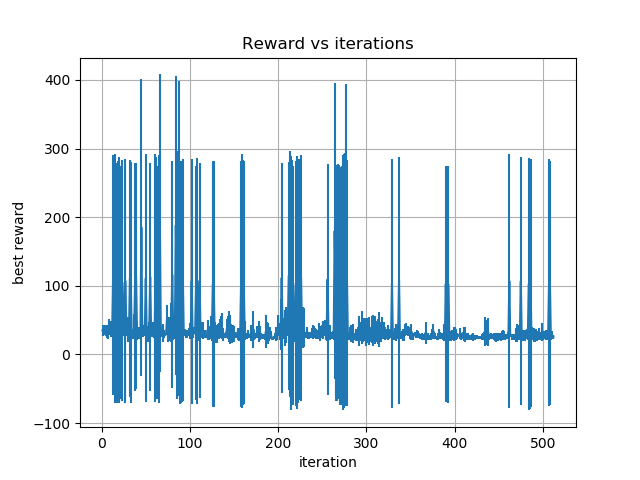
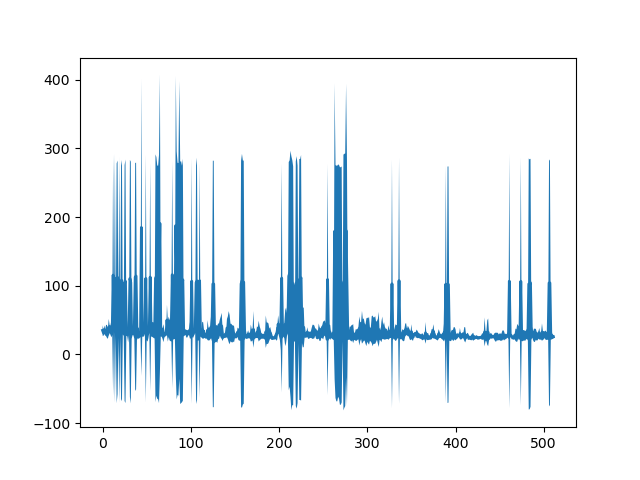
Optimización pick_and_place y archivo para piintar graficas.

diff --git a/avoid_obstacle/print_graph_with_error.py b/avoid_obstacle/print_graph_with_error.py
@@ -1,7 +1,7 @@
 import pickle
 import numpy as np
 import matplotlib.pyplot as plt
-import statistics as st
+import scipy.stats as sp
 import math
 
 file = "listas_bayesopt_waypoints.p"
@@ -11,7 +11,7 @@ n_iteraciones = len(listas[0].list_of_rewards)
 n_experimentos = len(listas)
 
 best_reward = 1000
-lists_of_best_rewards = np.zeros((n_iteraciones, n_experimentos))
+lists_of_best_rewards = np.zeros((n_experimentos, n_iteraciones))
 list_of_mean_reward = []
 list_of_intervals = []
 list_of_iterations = []
@@ -19,24 +19,28 @@ list_of_iterations = []
 for i in range(n_iteraciones):
     for j in range(n_experimentos):
         if i == 0:
-            lists_of_best_rewards[i, j] = listas[j].list_of_rewards[i]
-        elif listas[j].list_of_rewards[i] < listas[j].list_of_rewards[i-1]:
-            lists_of_best_rewards[i, j] = listas[j].list_of_rewards[i]
+            lists_of_best_rewards[j, i] = listas[j].list_of_rewards[i]
+        elif listas[j].list_of_rewards[i] < listas[j].list_of_rewards[i - 1]:
+            lists_of_best_rewards[j, i] = listas[j].list_of_rewards[i]
         else:
-            lists_of_best_rewards[i, j] = listas[j].list_of_rewards[i-1]
+            lists_of_best_rewards[j, i] = listas[j].list_of_rewards[i - 1]
 
-    mean_reward = st.mean(lists_of_best_rewards[i])
-    stddev = st.pstdev(lists_of_best_rewards[i])
-    t_student = 2.571
-    interval = t_student * stddev / math.sqrt(n_experimentos)
+print(lists_of_best_rewards.shape)
 
-    list_of_mean_reward.append(mean_reward)
-    list_of_intervals.append(interval)
-    list_of_iterations.append(i+1)
+res = np.asarray(lists_of_best_rewards)
+print(res.shape)
+res_mean = np.mean(lists_of_best_rewards, axis=0)
+print(res_mean.shape)
+res_std = np.std(lists_of_best_rewards, axis=0)
+print(res_std.shape)
+n, it = range(res.shape[0]), range(res.shape[1])
+t_limits = sp.t.interval(0.95, n_experimentos) / np.sqrt(n_experimentos)
+print(t_limits.shape)
 
-figure, ax = plt.subplots()
-ax.errorbar(list_of_iterations, list_of_mean_reward, yerr=list_of_intervals)
-ax.set(xlabel='iteration', ylabel='best reward', title='Reward vs iterations')
-ax.grid()
-figure.savefig("it_rew_bayesopt.png")
+plt.plot(it, res_mean, linewidth=2, label=None)
+plt.fill(np.concatenate([it, it[::-1]]),
+         np.concatenate([res_mean + t_limits[0] * res_std,
+                         (res_mean + t_limits[1] * res_std)[::-1]]))
+
+plt.savefig("it_rew_bayesopt.png")
 plt.show()

diff --git a/pick_and_place/pick_and_place_function.py b/pick_and_place/pick_and_place_function.py
@@ -52,7 +52,7 @@ class Lists(object):
 class PickAndPlace(object):
     def __init__(self):
         self.pr = PyRep()
-        self.pr.launch(join(DIR_PATH, TTT_FILE), headless=False)
+        self.pr.launch(join(DIR_PATH, TTT_FILE), headless=True)
         self.robot = Robot(Panda(), PandaGripper(), Dummy('Panda_tip'))
         self.task = InitTask()
         self.param = Parameters()
@@ -94,7 +94,7 @@ class PickAndPlace(object):
                         self.pr.step()
                     self.robot.gripper.grasp(self.task.block)
                     distance_pick = calc_distance(self.robot.tip.get_position(), self.task.pick_wp.get_position())
-                    reward -= distance_pick ** 2
+                    reward -= 400 * distance_pick ** 2
                 elif pos == self.task.wp3:
                     done = False
                     # Open the gripper halfway at a velocity of 0.04.
@@ -103,7 +103,7 @@ class PickAndPlace(object):
                         self.pr.step()
                     self.robot.gripper.release()
                     distance_place = calc_distance(self.task.block.get_position(), self.task.place_wp.get_position())
-                    reward -= distance_place ** 2
+                    reward -= 400 * distance_place ** 2
             except ConfigurationPathError as e:
                 reward = -85
                 print('Could not find path')

diff --git a/plot_logs.py b/plot_logs.py
@@ -1,0 +1,24 @@
+import numpy as np
+import matplotlib.pyplot as plt
+import scipy.stats as sp
+
+
+def plot_optim(results,color,symbol='',label=None):
+    
+    res = np.asarray(results)
+    res_mean = np.mean(res,axis=0)
+    res_std = np.std(res,axis=0)
+    # print(np.amin(res[:, -1]), last_points[np.argmin(res[:,-1])], ftype)
+
+    it, n = range(res.shape[0]), range(res.shape[1])
+    t_limits = sp.t.interval(0.95, n) / np.sqrt(n)
+
+    plt.plot(it, res_mean, linewidth=2, label=label)
+    plt.fill(np.concatenate([it, it[::-1]]),
+             np.concatenate([res_mean + t_limits[0] * res_std,
+                             (res_mean + t_limits[1] * res_std)[::-1]]),
+             alpha=.3, fc=color, ec='None')
+
+
+plt.savefig("it_rew_bayesopt.png")
+plt.show()

diff --git a/pick_and_place/pick_and_place_scipy.py b/pick_and_place/pick_and_place_scipy.py
@@ -4,7 +4,7 @@ import pickle
 
 function = pf.PickAndPlace()  # Inicializacion
 
-bounds = [(-0.3, 0.3), (-0.3, 0.3), (0.0, 0.2), (-0.3, 0.3), (-0.3, 0.3), (0.0, 0.2)]
+bounds = [(-0.15, 0.15), (-0.15, 0.15), (-0.2, 0.0), (-0.1, 0.1), (-0.1, 0.1), (-0.2, 0.0)]
 
 maxiter = 500
 popsize = 1
@@ -14,7 +14,8 @@ n_experimentos = 5
 
 for i in range(n_experimentos):
     function.clean_lists()
-    result = differential_evolution(function.tray_with_waypoints, bounds, maxiter=maxiter, popsize=popsize)
+    result = differential_evolution(function.pick_and_place, bounds, maxiter=maxiter, popsize=popsize)
+    print(result)
     listas_optimizacion = function.return_lists()
     listas.append(listas_optimizacion)
 

diff --git a/pick_and_place/pick_and_place_bayesopt.py b/pick_and_place/pick_and_place_bayesopt.py
@@ -6,8 +6,8 @@ import pickle
 function = pf.PickAndPlace()  # Inicializacion
 
 n = 6  # n dimensions
-lb = np.array([-0.3, -0.3, 0, -0.3, -0.3, 0])
-ub = np.array([0.3, 0.3, 0.2, 0.3, 0.3, 0.2])
+lb = np.array([-0.15, -0.15, -0.25, -0.1, -0.1, -0.25])
+ub = np.array([0.15, 0.15, 0.0, 0.1, 0.1, 0.0])
 
 params = {'n_iterations': 500,
           'n_iter_relearn': 10,

diff --git a/pick_and_place/pick_and_place_function_prueba.py b/pick_and_place/pick_and_place_function_prueba.py
@@ -3,7 +3,7 @@ import pick_and_place_function as ppf
 
 function = ppf.PickAndPlace()  # Inicializacion
 
-wp_params = np.array([0, 0, -0.22, 0, 0, -0.22])
+wp_params = np.array([0.1, 0.1, -0.2, -0.1, -0.1, 0])
 reward = function.pick_and_place(wp_params)
 print(reward)
 
